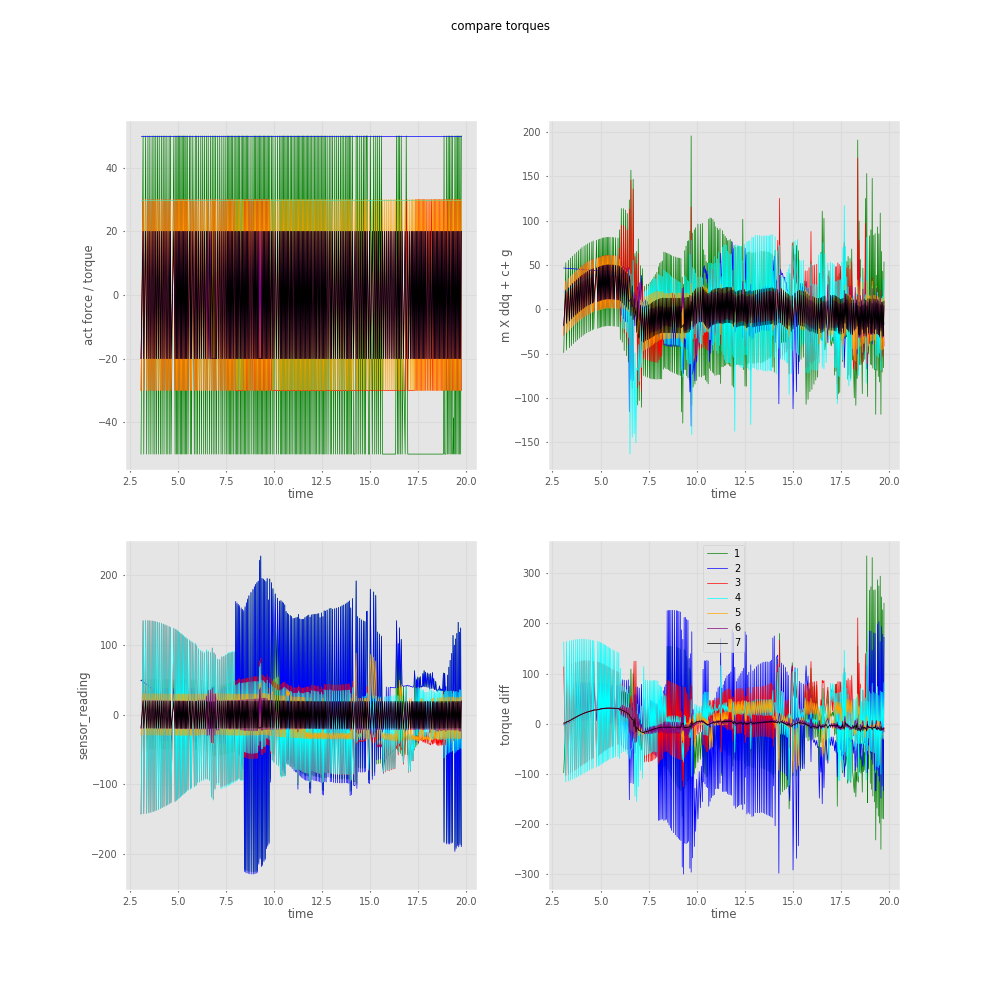
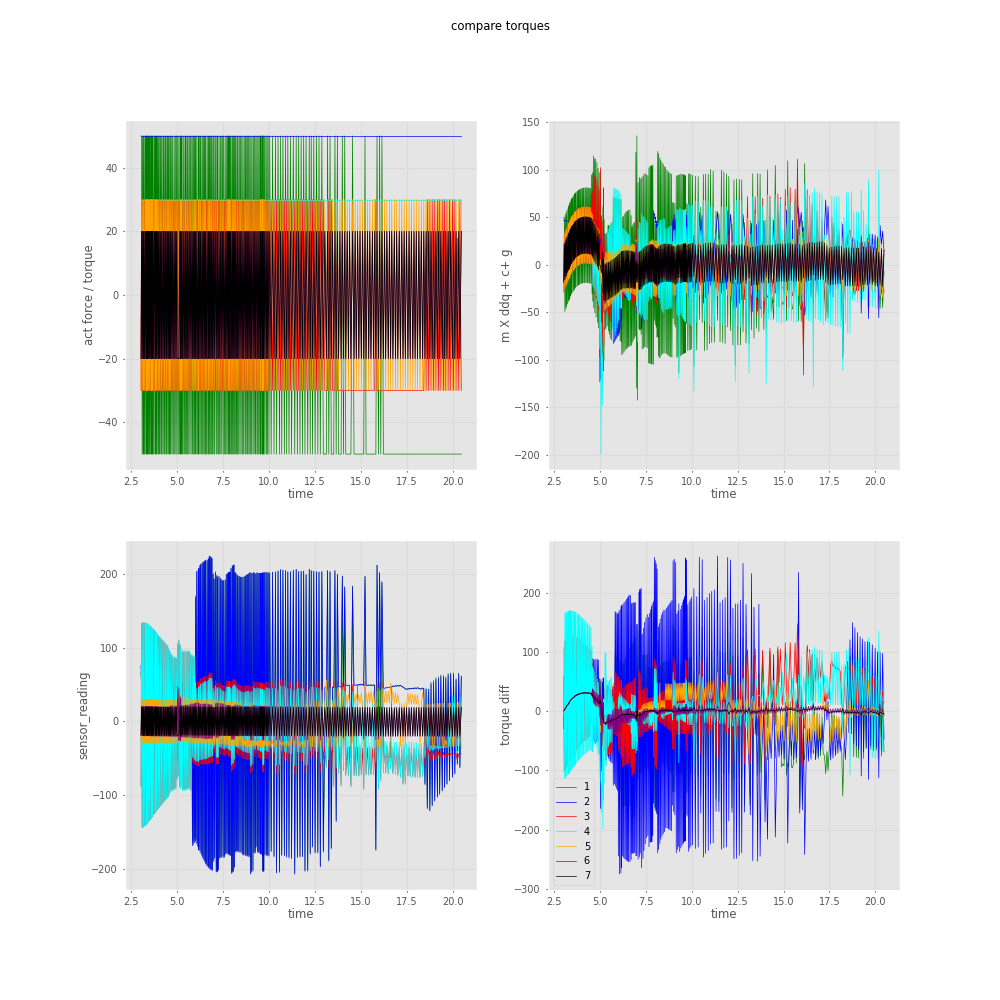
somthing is working

diff --git a/mpc_controller.py b/mpc_controller.py
@@ -47,29 +47,42 @@ class MPC:
         self.robot_err_x, self.robot_err_y, self.robot_err_z = [], [], []
         self.act, self.T, self.wrench_jac = [], [], []
         self.v, self.sensor_v = [], []
-        self.joint_tor_sensor, self.rtb_torque,  self.time = [], [], []
+        self.joint_tor_sensor, self.rtb_torque,  self.time, self.wrench, self.ee_pos_ =[],  [], [], [], []
 
     def get_next_torque(self, wrench, robot, target):
-        self.Y = .01
+        self.Y = 1
         self.Q = np.eye(self.n*2) * self.Y
         J = robot.get_jacobian()
-        Aeq, beq = np.zeros((13,14)), np.zeros(13)
-        Aeq[0:6,0:7], beq[0:6] = J, target
+        Aeq, beq = np.zeros((14,14)), np.zeros(14)
+        Aeq[0:7,0:7], beq[0:7] = np.eye(7), np.ones(7)
 
-        Aeq[6:13,7:14], beq[6:13] = np.eye(7), np.dot(J.T,wrench)
+        Aeq[7:14,7:14], beq[7:14] = np.eye(7), np.dot(J.T,wrench)
         Ain, bin = np.zeros((14,14)) , np.zeros(14)
         lb = np.asarray([-1000, -1000,-1000,-1000,-1000,-1000,-1000,-1000, -1000,-1000,-1000,-1000,-1000,-1000]) 
         ub = np.asarray([1000, 1000,1000,1000,1000,1000,1000,1000, 1000,1000,1000,1000,1000,1000])
         c = np.zeros(self.n*2)
         M = robot.get_M_()
+
+        # Build the matrices for the QP problem
+        # P = np.kron(np.eye(N), R) + np.kron(np.eye(N), B.T @ Q @ B)
+        x0 = robot.get_joint_positions()
+        A = np.eye(7)
+        B = np.eye(7)
+        Q= np.eye(7)
+        x_ref = target
+        self.Q[0:7, 0:7] =  (x_ref - A @ x0).T @ Q @ (x_ref - A @ x0)* .1
+
+        # # Define the constraint matrices
+        # G = np.vstack((np.eye(N), -np.eye(N)))
+        # h = np.hstack((u_max * np.ones(N), -u_min * np.ones(N)))
         q_tau = qp.solve_qp(self.Q, c, Ain, bin, Aeq, beq, lb=lb, ub=ub, solver='cvxopt')
         tau = q_tau[7:14]
         ext_ddq = np.dot(np.linalg.pinv(M),tau)
         ddq = np.asarray(ext_ddq )
-        dq = np.asarray(robot.get_joint_vel())
-        q = np.asarray(robot.get_joint_positions())
+        # dq = np.asarray(robot.get_joint_vel())
+        # q = np.asarray(robot.get_joint_positions())
         target_dq = ddq * 60
-        print(tau)
+        # print(target-q_tau[0:7])
         return target_dq, q_tau[0:7]
 
 
@@ -154,6 +167,9 @@ class MPC:
         self.joint_tor_sensor.append(robot.get_joint_torque_sensor())
         self.time.append(robot.curr_time)
         self.rtb_torque.append(robot.get_rtb_joint_torque())
+        self.wrench.append(wrench)  
+        ee = robot.get_ee_position()
+        self.ee_pos_.append([ee[0],ee[1],ee[2]])
 
     def joint_velocity_damper(self, robot):
         ps, pi = 0.05, 0.9
@@ -199,11 +215,12 @@ class MPC:
         q_k = robot.get_joint_positions()
         dq_k = np.matmul(pnv_j, target_vel)
         err = [0, 0, 0]
-        dt = 60.0
+        dt = 60.
         wrench = robot.get_ee_wrench()
-        dq_ext, q_ = self.get_next_torque(wrench, robot, target_vel)
-        dq_k = dq_ext + dq_k
-        self.target_pos = q_  +dq_k *dt
+        target_pos = q_k  +dq_k *dt
+        dq_ext, q_ = self.get_next_torque(wrench, robot, target_pos)
+        dq_k =  dq_ext + dq_k
+        self.target_pos = q_ + dq_k *dt
         robot.run(self.target_pos)
 
         # self.update_plot_values(robot, err)

diff --git a/run_controller.py b/run_controller.py
@@ -44,19 +44,37 @@ def generate_save_plt(x, y1, y2, y3, y4, title, axis_names, legend, time1, time2
 
     plt.savefig('./plot_results/' + title + '.png')
 
-def generate_save_joint_plt(x, y, title, axis_names, legend, time1, time2):
-    fig, ax = plt.subplots()
+def generate_save_plt_ee(x, y1, y2 ,title, axis_names, legend, time1, time2):
+    fig, axs = plt.subplots(1, 2,figsize=(10, 10))
     plt.grid(True)
-    colors = ["green", "blue", "red", "yellow", "orange", "pink", "black"]
-    for i in range(0, y.shape[1]):
-        plt.plot(x, y[:, i], colors[i % len(colors)])
-    ax.set_xlim(time1, time2)
-    plt.title(title)
-    plt.legend(legend)
-    plt.xlabel(axis_names[0])
-    plt.ylabel(axis_names[1])
-    plt.savefig('./plot_results/' + title + '.png')
+    colors = ["green", "blue", "red", "cyan", "orange", "purple", "black"]
+    # Plot each set of data in the corresponding subplot
+    for i in range(y2.shape[1]):
+        axs[0].scatter(x, y1[:, i], color=colors[i % len(colors)])
+        axs[1].plot(x, y2[:, i], color=colors[i % len(colors)])
+        # axs[1, 0].plot(x, y3[:, i], color=colors[i % len(colors)])
+        # axs[1, 1].plot(x, y4[:, i], color=colors[i % len(colors)])
 
+    # Set x and y labels, titles, and limits
+    axs[0].set_xlabel(axis_names[0])
+    axs[0].set_ylabel("wrench")
+    axs[1].set_xlabel(axis_names[0])
+    axs[1].set_ylabel("current end eff pos")
+    # axs[1, 0].set_xlabel(axis_names[0])
+    # axs[1, 0].set_ylabel("sensor_reading")
+    # axs[1, 1].set_xlabel(axis_names[0])
+    # axs[1, 1].set_ylabel("torque diff")  # Change to appropriate label
+
+    plt.legend(legend)
+    # axs[0, 0].set_ylim(-100, 100)  # Example y-limits
+    # axs[0, 1].set_ylim(-100, 100)
+    # axs[1, 0].set_ylim(-100, 100)
+    # axs[1, 1].set_ylim(-1000, 100)
+        # axs[1].legend(legend)
+
+    fig.suptitle(title)
+
+    plt.savefig('./plot_results/' + title + '.png')
 
 
 
@@ -79,7 +97,7 @@ def mean_squared_error(x, y):
 if __name__ == '__main__':
     print("testing robot.py setup")
     robot = RoboEnv()
-    Tmax, dT = 10, 10
+    Tmax, dT = 10, 400
     mpc = MPC(dt=dT)
     curr_robot_position = robot.data.site_xpos[0]
     x, y, z, rx, ry, rz = get_path(curr_robot_position, Tmax, dT)
@@ -101,7 +119,7 @@ if __name__ == '__main__':
     q, dq = robot.get_joint_positions(), robot.get_joint_vel()
     ee_pos = robot.get_ee_position()
     # mpc.run_opt_controller(target_position, target_vel,q,dq, robot)
-    for i in range(0, 400):
+    for i in range(0, dT):
         mpc.resolve_rate_controller(robot, target_vel)
 
 
@@ -112,8 +130,10 @@ if __name__ == '__main__':
     W_joint = np.asarray(mpc.wrench_jac)
     joint_tor_sensor = np.asarray(mpc.joint_tor_sensor)
     rtb_torque = np.asarray(mpc.rtb_torque)
-
+    W = np.asarray(mpc.wrench)
+    ee_pos_ = np.asarray(mpc.ee_pos_)
 
     generate_save_plt(x = time, y1 = act, y2 = T, y3 = joint_tor_sensor, y4 = W_joint, title =  "compare torques",axis_names= ["time", "torque"], legend =["1","2","3","4", "5", "6", "7"],time1 = time[0],time2=time[-1])
+    generate_save_plt_ee(x = time, y1 = W, y2 =ee_pos_, title =  "end effector parameters tree",axis_names=["time", "torque"], legend =["x","y","z"],time1 = time[0],time2=time[-1])
 
 

diff --git a/robot.py b/robot.py
@@ -88,7 +88,7 @@ class RoboEnv(MuJoCoBase):
         return np.dot(ft_ori_mat, self.data.sensordata[27:30])
 
     def get_ee_position(self):
-        return self.data.body(self.eef_name).xpos
+        return self.data.site_xpos[self.eef_site_id]
 
     def get_jacobian(self):
         jacp = np.zeros((3, self.model.nv))
